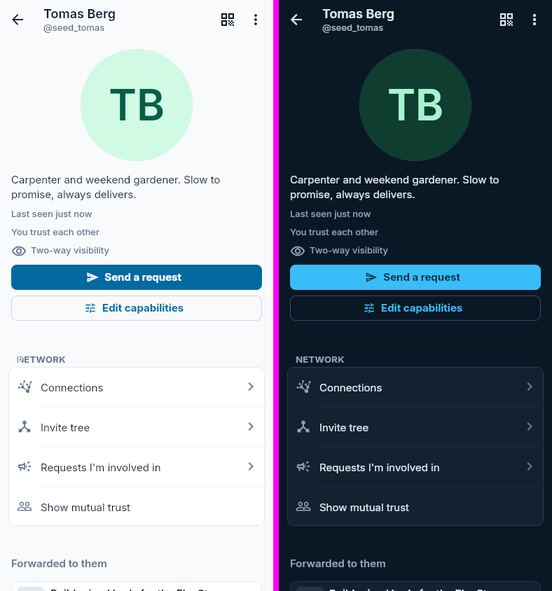
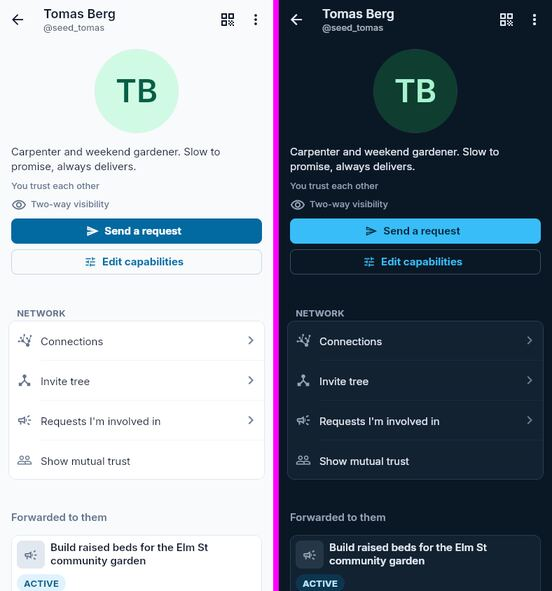
fix(ui): UI review round 2 — tabs, graphs, People tab, rating, profile
- Tabs (#206): Forward picker counts read "Not yet seen 3" like Updates;
  the design-system doc now fixes the rule (plain muted number for a
  collection size, filled badge only for new / needs-attention counts).
- Graphs (#211): the viewer node in My field draws from the live own
  profile, so a cold load no longer shows "?" at the centre.
- Request › People (#205): sections render as headers over helper cards
  (AccordionExpansionTile(framed: false)) instead of cards inside a card.
- Rating (#208): reciprocity class is plain status text that wraps, not a
  truncated pill; removes two raw-inset/radius lint hits (baseline 26→24).
- Profile (#210): hero avatar 160→120; default medium avatar no longer
  derived from the hero size.

Claude-Session: https://claude.ai/code/session_01Tpen3EKFYB9hVr97ZsYy22

diff --git a/packages/client/lib/features/rating/ui/widget/rating_list_tile.dart b/packages/client/lib/features/rating/ui/widget/rating_list_tile.dart
@@ -79,31 +79,21 @@ class RatingListTile extends StatelessWidget {
     }
 
     String badgeLabel;
-    Color badgeBg;
     Color badgeFg;
-    Color badgeBorder;
     switch (reciprocity) {
       case _ReciprocityClass.mutual:
         badgeLabel = l10n.classMutual;
-        badgeBg = colorScheme.primary.withValues(alpha: 12 / 100);
         badgeFg = colorScheme.primary;
-        badgeBorder = colorScheme.primary.withValues(alpha: 4 / 10);
       case _ReciprocityClass.oneWayOut:
         badgeLabel = l10n.classOneWayOut;
-        badgeBg = tt.warn.withValues(alpha: 12 / 100);
         badgeFg = tt.warn;
-        badgeBorder = tt.warn.withValues(alpha: 4 / 10);
       case _ReciprocityClass.oneWayIn:
         badgeLabel = l10n.classOneWayIn;
-        // Neutral, so it stays distinct from the brand "mutual" badge.
-        badgeBg = colorScheme.surfaceContainerHigh;
+        // Neutral, so it stays distinct from the brand "mutual" label.
         badgeFg = colorScheme.onSurfaceVariant;
-        badgeBorder = colorScheme.outlineVariant;
       case _ReciprocityClass.none:
         badgeLabel = l10n.classNone;
-        badgeBg = colorScheme.surfaceContainer;
         badgeFg = colorScheme.onSurfaceVariant;
-        badgeBorder = colorScheme.outlineVariant;
     }
 
     const rowHeight = 56.0;
@@ -209,26 +199,14 @@ class RatingListTile extends StatelessWidget {
             Expanded(
               flex: 2,
               child: Center(
-                child: Container(
-                  padding: const EdgeInsets.symmetric(
-                    horizontal: kSpacingSmall,
-                    vertical: 4,
-                  ),
-                  decoration: BoxDecoration(
-                    color: badgeBg,
-                    borderRadius: BorderRadius.circular(16),
-                    border: Border.all(color: badgeBorder),
-                  ),
-                  child: Text(
-                    badgeLabel,
-                    style: textTheme.labelSmall?.copyWith(
-                      color: badgeFg,
-                      fontWeight: FontWeight.w500,
-                    ),
-                    maxLines: 1,
-                    overflow: TextOverflow.ellipsis,
-                    textAlign: TextAlign.center,
-                  ),
+                // Plain status text, not a pill (design-system principle 2,
+                // UI review #208); wraps instead of truncating to "one-…".
+                child: Text(
+                  badgeLabel,
+                  style: TenturaText.status(badgeFg),
+                  maxLines: 2,
+                  overflow: TextOverflow.ellipsis,
+                  textAlign: TextAlign.center,
                 ),
               ),
             ),

diff --git a/packages/client/lib/ui/widget/accordion_expansion.dart b/packages/client/lib/ui/widget/accordion_expansion.dart
@@ -55,7 +55,8 @@ class AccordionExpansionGroup extends StatefulWidget {
   final String? requestedExpandedId;
 
   @override
-  State<AccordionExpansionGroup> createState() => _AccordionExpansionGroupState();
+  State<AccordionExpansionGroup> createState() =>
+      _AccordionExpansionGroupState();
 }
 
 class _AccordionExpansionGroupState extends State<AccordionExpansionGroup> {
@@ -69,8 +70,7 @@ class _AccordionExpansionGroupState extends State<AccordionExpansionGroup> {
   String? _expandedId;
 
   bool _resolveAccordionMode(BuildContext context) {
-    return widget.accordionMode ??
-        context.windowClass == WindowClass.compact;
+    return widget.accordionMode ?? context.windowClass == WindowClass.compact;
   }
 
   @override
@@ -133,6 +133,7 @@ class AccordionExpansionTile extends StatefulWidget {
     this.onExpansionChanged,
     this.initiallyExpanded = false,
     this.maintainState = true,
+    this.framed = true,
     super.key,
   });
 
@@ -151,6 +152,11 @@ class AccordionExpansionTile extends StatefulWidget {
   final bool initiallyExpanded;
 
   final bool maintainState;
+
+  /// Draws the themed outlined frame around the fold. Pass `false` when the
+  /// children are already cards, so the section reads as a header over cards
+  /// instead of a card holding cards (UI review #205).
+  final bool framed;
 
   @override
   State<AccordionExpansionTile> createState() => _AccordionExpansionTileState();
@@ -199,8 +205,13 @@ class _AccordionExpansionTileState extends State<AccordionExpansionTile> {
     final theme = Theme.of(context);
     final trailing = _buildTrailing(theme);
 
+    final ShapeBorder? unframed = widget.framed ? null : const Border();
+
     if (!accordionMode) {
       return ExpansionTile(
+        shape: unframed,
+        collapsedShape: unframed,
+        tilePadding: widget.framed ? null : EdgeInsets.zero,
         leading: widget.leading,
         initiallyExpanded: widget.initiallyExpanded,
         maintainState: widget.maintainState,
@@ -214,6 +225,9 @@ class _AccordionExpansionTileState extends State<AccordionExpansionTile> {
     final expanded = scope!.expandedId == widget.id;
     return ExpansionTile(
       key: ValueKey('${widget.id}-$expanded'),
+      shape: unframed,
+      collapsedShape: unframed,
+      tilePadding: widget.framed ? null : EdgeInsets.zero,
       leading: widget.leading,
       initiallyExpanded: expanded,
       maintainState: widget.maintainState,

diff --git a/packages/client/lib/features/graph/ui/widget/graph_node_widget.dart b/packages/client/lib/features/graph/ui/widget/graph_node_widget.dart
@@ -1,4 +1,5 @@
 import 'package:flutter/material.dart';
+import 'package:get_it/get_it.dart';
 
 import 'package:tentura/design_system/components/tentura_avatar.dart';
 import 'package:tentura/design_system/components/tentura_count_badge.dart';
@@ -100,11 +101,35 @@ class GraphNodeWidget extends StatelessWidget {
           size: nodeDetails.size * 0.45,
         ),
       ),
-      FieldPersonNode(:final person) => TenturaAvatar(
-        profile: person,
-        size: nodeDetails.size,
-        withRating: withRating,
-        isSelf: isSelf,
+      // The viewer node is built from the profile the field cubit captured at
+      // creation — on a cold load an id-only placeholder, which drew "?"
+      // in the centre of My field (UI review #211). Draw it from the live
+      // own profile instead.
+      // Read from GetIt like ConstellationScreen does (the field is not
+      // always under a ProfileCubit provider); fall back to the node's own
+      // profile when none is registered (isolated widget tests).
+      FieldPersonNode(:final person) when !GetIt.I.isRegistered<ProfileCubit>() =>
+        TenturaAvatar(
+          profile: person,
+          size: nodeDetails.size,
+          withRating: withRating,
+          isSelf: isSelf,
+        ),
+      FieldPersonNode(:final person) => BlocBuilder<ProfileCubit, ProfileState>(
+        bloc: GetIt.I<ProfileCubit>(),
+        buildWhen: (p, c) => p.profile != c.profile,
+        builder: (context, state) {
+          final live = state.profile;
+          final shown = live.id.isNotEmpty && live.id == person.id
+              ? live
+              : person;
+          return TenturaAvatar(
+            profile: shown,
+            size: nodeDetails.size,
+            withRating: withRating,
+            isSelf: isSelf,
+          );
+        },
       ),
       FieldRequestNode(:final request) => BeaconIdentityTile(
         beacon: constellationRequestAsIdentityBeacon(request),

diff --git a/packages/client/lib/features/beacon_view/ui/widget/beacon_people_tab_body.dart b/packages/client/lib/features/beacon_view/ui/widget/beacon_people_tab_body.dart
@@ -187,6 +187,7 @@ class BeaconPeopleTabBody extends StatelessWidget {
           AccordionExpansionGroup(
             accordionMode: false,
             child: AccordionExpansionTile(
+              framed: false,
               id: BeaconPeopleAccordionSection.activeHelpers,
               initiallyExpanded: true,
               title: Text(
@@ -412,6 +413,7 @@ class BeaconPeopleTabBody extends StatelessWidget {
     }) {
       if (rows.isEmpty) return const SizedBox.shrink();
       return AccordionExpansionTile(
+        framed: false,
         id: sectionId,
         initiallyExpanded: initiallyExpanded,
         title: Text(
@@ -504,6 +506,7 @@ class BeaconPeopleTabBody extends StatelessWidget {
         AccordionExpansionGroup(
           accordionMode: false,
           child: AccordionExpansionTile(
+            framed: false,
             id: _forwardsFoldId,
             title: Text(
               forwardsTitle,
@@ -614,6 +617,7 @@ class BeaconPeopleTabBody extends StatelessWidget {
               if (showWithdrawn) ...[
                 const SizedBox(height: 8),
                 AccordionExpansionTile(
+                  framed: false,
                   id: BeaconPeopleAccordionSection.withdrawn,
                   title: Text(l10n.beaconShowWithdrawn(withdrawn.length)),
                   children: [

diff --git a/packages/client/lib/features/forward/ui/widget/forward_scope_links.dart b/packages/client/lib/features/forward/ui/widget/forward_scope_links.dart
@@ -73,12 +73,13 @@ class ForwardScopeLinks extends StatelessWidget {
                                     active ? activeColor : tt.textMuted,
                                   ),
                                 ),
+                                // Collection sizes read "Label  N" like the
+                                // Updates tabs; filled badges are kept for
+                                // new / needs-attention counts (#206).
                                 TextSpan(
-                                  text: ' ($count)',
+                                  text: '\u2002$count',
                                   style: TenturaText.withTabular(
-                                    TenturaText.bodySmall(
-                                      active ? activeColor : tt.textMuted,
-                                    ),
+                                    TenturaText.bodySmall(tt.textMuted),
                                   ),
                                 ),
                               ],

diff --git a/packages/client/lib/design_system/components/tentura_avatar.dart b/packages/client/lib/design_system/components/tentura_avatar.dart
@@ -24,7 +24,10 @@ enum TenturaAvatarSize {
 const int kAvatarRatingSector = 100 ~/ 4;
 
 /// Fixed diameter for [TenturaAvatarSize.big] (profile hero).
-const double kTenturaAvatarBigSize = 160;
+///
+/// 120 rather than 160: with initials (most people have no photo) a 160 disc
+/// dominated the profile and pushed the actions below the fold (#210).
+const double kTenturaAvatarBigSize = 120;
 
 /// Largest avatar that still carries the MeritRank eye / mutual badge.
 const double kTenturaAvatarBadgeMaxSize = 64;
@@ -33,7 +36,7 @@ const double kTenturaAvatarBadgeMaxSize = 64;
 const double kTenturaAvatarStackRing = 1.5;
 
 /// Default list-row avatar diameter ([TenturaAvatarSize.medium] on compact).
-const double kTenturaAvatarDefaultMedium = kTenturaAvatarBigSize / 4;
+const double kTenturaAvatarDefaultMedium = 40;
 
 /// Unified circular profile avatar: identifier, optional MeritRank chrome,
 /// self halo, author star, and capability overlay badge.

diff --git a/docs/tentura-design-system.md b/docs/tentura-design-system.md
@@ -235,10 +235,11 @@ Do **not** wrap the app in `MediaQuery.copyWith(textScaler: TextScaler.noScaling
 4. **Hairlines** — use [`TenturaHairlineDivider`](../packages/client/lib/design_system/components/tentura_hairline_divider.dart), not nested cards. **Exception:** My Desk live-obligation sub-cards may nest one outlined [`TenturaTechCardStatic`](../packages/client/lib/design_system/components/tentura_tech_card.dart) (`tt.bg` / `tt.borderSubtle`, optional `radius: TenturaRadii.cardDense`, padding `tt.cardGap`) inside a Request card — no second elevation.
 5. **Tabs** — underline row with 2px active indicator ([`TenturaUnderlineTabs`](../packages/client/lib/design_system/components/tentura_underline_tabs.dart)), not `SegmentedButton` on beacon detail. Labels stay at **13px** logical size. Text-only tabs use **ellipsis** when width is tight. When optional **icons** are passed (request detail), labels hide together if icon+text does not fit each equal slot — badges are not part of that fit decision; icon-only tabs keep the label via Tooltip / Semantics. Vertical padding follows **`context.tt.rowGap`** (density), not a fixed px hack.
    - **`compactIconTabs`** — `Set<int>` of tab indices rendered at fixed width (`context.tt.tabCompactWidth`: **56** dp compact, **64** dp regular/expanded) with icon-only cells; badges overlay the icon. NOW and Chat stay equal-width `Expanded` slots; People uses this mode on request detail.
+   - **Counts** — a *collection size* ("Unread 7", "Not yet seen 3") is a plain muted tabular number after the label (`TenturaTabCountStyle.plainText`); a filled `TenturaCountBadge` is reserved for *new / needs-attention* counts (e.g. unread chat). No parenthesised "(3)".
    - **Tab hit target** — every tab cell is wrapped in `ConstrainedBox(minHeight: kMinInteractiveDimension)` (**48** dp minimum interactive height), including icon-only compact cells.
 6. **Button hierarchy** (themed once in `TenturaTheme`): **Filled** = the one primary action on a screen; **Filled.tonal** = secondary actions (brand container); **Text** = tertiary; **Outlined** = neutral frame (`outlineVariant`), brand ink. All share `tt.buttonRadius`, `tt.buttonHeight` and `labelLarge`. Disabled filled buttons are neutral grey, never a washed-out brand. Count badges are brand (`BadgeTheme`), not error red.
 7. **Actions** — [`TenturaTextAction`](../packages/client/lib/design_system/components/tentura_text_action.dart) / [`TenturaCommandButton`](../packages/client/lib/design_system/components/tentura_command_button.dart); avoid filled buttons inside dense cards unless truly primary.
-8. **Avatars** — unified [`TenturaAvatar`](../packages/client/lib/design_system/components/tentura_avatar.dart) with four buckets via `TenturaAvatarSize`: **big** (160, profile hero), **medium** (`avatarSize`, list rows / people tab), **small** (`metadataAvatarSize`, facepiles / coordination footer), **tiny** (`avatarTinySize`, inline log/timeline). Optional flags: `showAuthorStar` (beacon author), `isSelf` (viewer halo), `withRating` / `withContactBadge` (MeritRank; honored at big/medium/small only). Personal/identity surfaces default to plain avatars (`withRating: false`). Viewer identity is resolved only in [`SelfAwareAvatar`](../packages/client/lib/ui/widget/self_aware_profile_avatar.dart) (never in the DS widget). Facepiles use [`OverlappingPeopleAvatars`](../packages/client/lib/ui/widget/overlapping_people_avatars.dart) with `selfUserId` + `starredProfileId`. Photo-less avatars draw initials on a per-person hue (`TenturaColorPalette.avatarHueFor(userId)`), so a list of people is scannable by colour.
+8. **Avatars** — unified [`TenturaAvatar`](../packages/client/lib/design_system/components/tentura_avatar.dart) with four buckets via `TenturaAvatarSize`: **big** (120, profile hero), **medium** (`avatarSize`, list rows / people tab), **small** (`metadataAvatarSize`, facepiles / coordination footer), **tiny** (`avatarTinySize`, inline log/timeline). Optional flags: `showAuthorStar` (beacon author), `isSelf` (viewer halo), `withRating` / `withContactBadge` (MeritRank; honored at big/medium/small only). Personal/identity surfaces default to plain avatars (`withRating: false`). Viewer identity is resolved only in [`SelfAwareAvatar`](../packages/client/lib/ui/widget/self_aware_profile_avatar.dart) (never in the DS widget). Facepiles use [`OverlappingPeopleAvatars`](../packages/client/lib/ui/widget/overlapping_people_avatars.dart) with `selfUserId` + `starredProfileId`. Photo-less avatars draw initials on a per-person hue (`TenturaColorPalette.avatarHueFor(userId)`), so a list of people is scannable by colour.
 9. **A11y** — min tap targets (e.g. button height from tokens); respect system text scaling.
 
 ### Updates feed (home tab)
